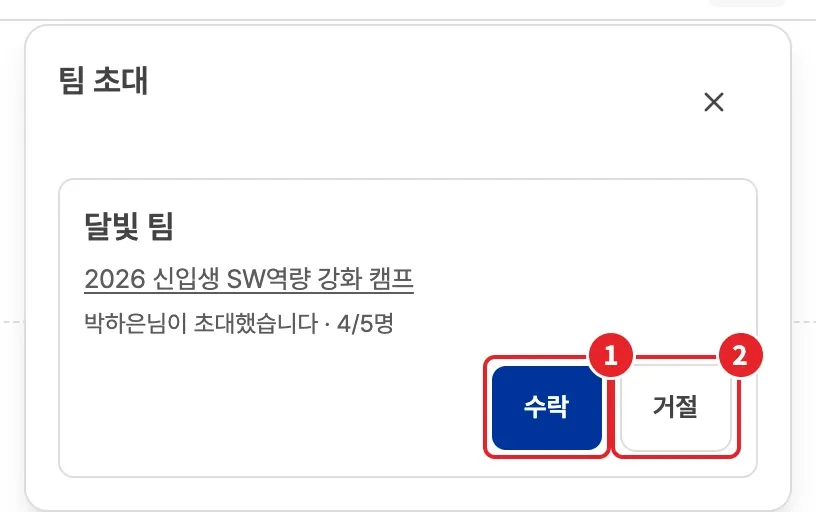
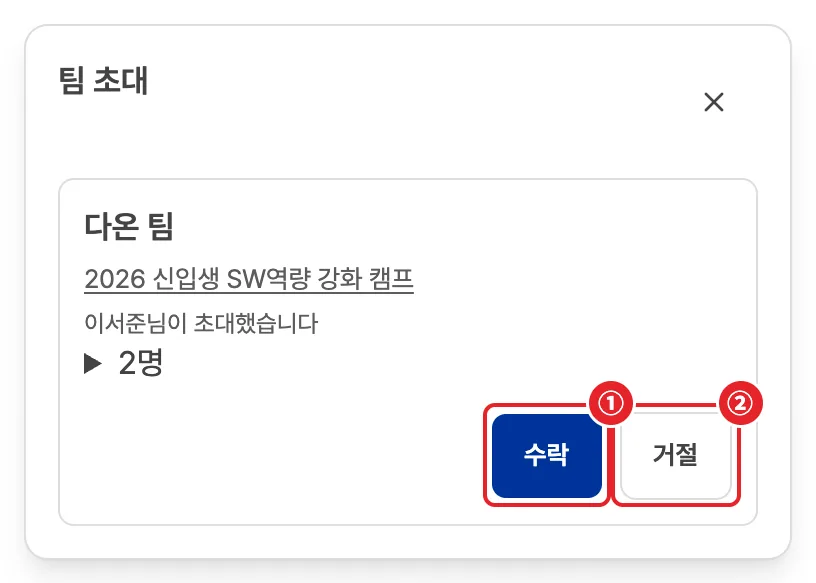
docs(guide): 사용자 가이드에 v0.24.129~v0.24.132 변경을 반영한다 (#2015)
Closes #2014

diff --git a/guide/src/site.ts b/guide/src/site.ts
@@ -1,4 +1,4 @@
 export const lastChecked = '2026-11-20';
 export const releaseVersion = 'v0.24.128';
-export const checkedCommit = 'd35e75ac2a4e7ad62e0dc3dfc280dd0e92e298c5';
+export const checkedCommit = 'c77f5874e64098804a64a182d5198b9a96b9213e';
 export const serviceUrl = 'https://jnu-oss-hub.com';
